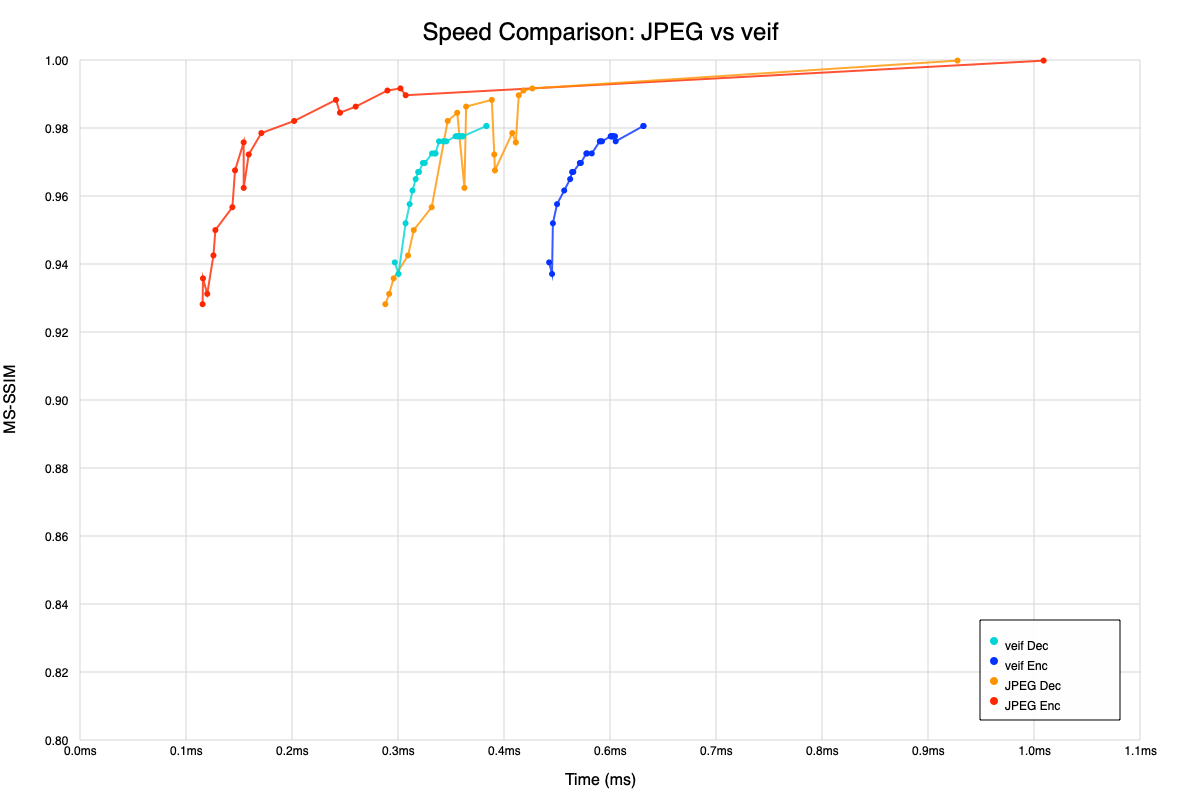
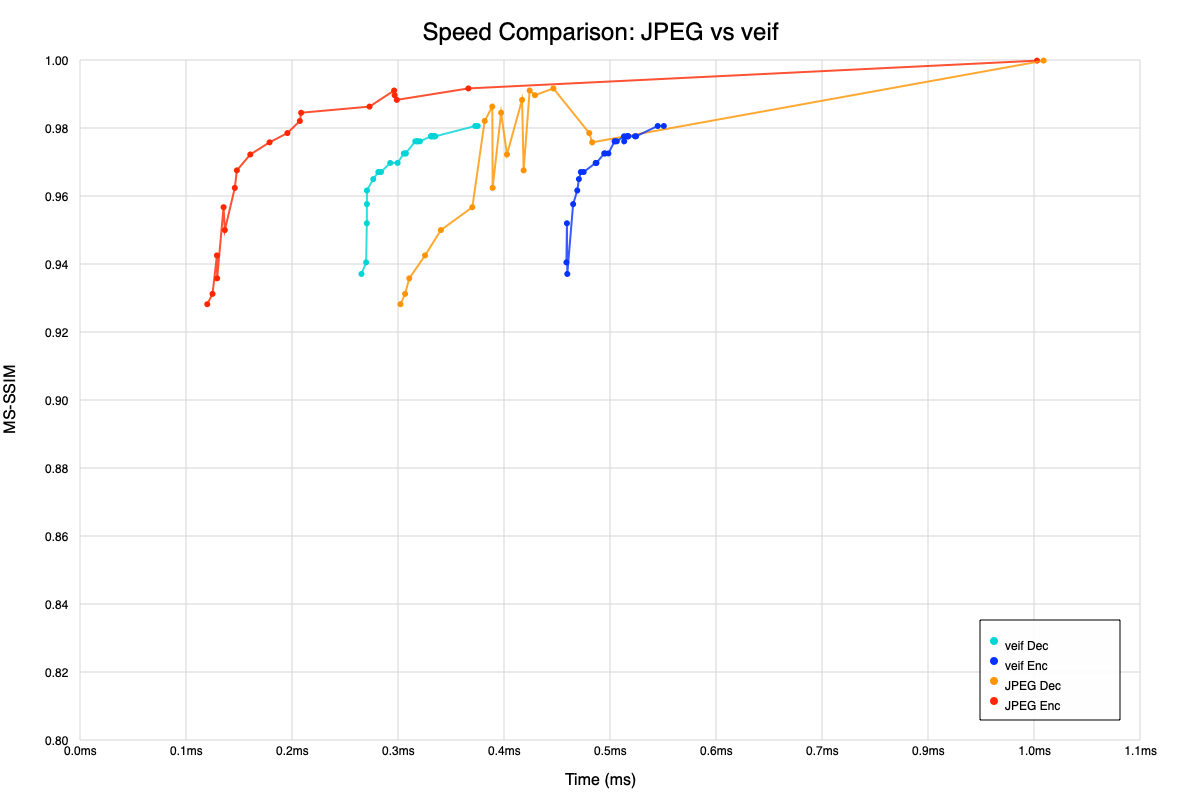
unroll

diff --git a/Sources/veif/Quant.swift b/Sources/veif/Quant.swift
@@ -109,6 +109,70 @@ private func performQuantizeSIMD8(_ vec: SIMD8<Int16>, mul: Int32, shift: Int32)
 
 @inline(__always)
 private func quantizeSIMD(_ block: inout BlockView, q: Quantizer) {
+    switch block.width {
+    case 8:  quantizeSIMD8(&block, q: q)
+    case 16: quantizeSIMD16(&block, q: q)
+    case 32: quantizeSIMD32(&block, q: q)
+    default: quantizeSIMDGeneric(&block, q: q)
+    }
+}
+
+@inline(__always)
+private func quantizeSIMD8(_ block: inout BlockView, q: Quantizer) {
+    let mul = q.mul
+    let shift = Int32(q.shift)
+    for y in 0..<8 {
+        let ptr = block.rowPointer(y: y)
+        let vec = SIMD8<Int16>(UnsafeBufferPointer(start: ptr, count: 8))
+        let res = performQuantizeSIMD8(vec, mul: mul, shift: shift)
+        UnsafeMutableRawPointer(ptr).assumingMemoryBound(to: SIMD8<Int16>.self).pointee = res
+    }
+}
+
+@inline(__always)
+private func quantizeSIMD16(_ block: inout BlockView, q: Quantizer) {
+    let mul = q.mul
+    let shift = Int32(q.shift)
+    for y in 0..<16 {
+        let ptr = block.rowPointer(y: y)
+        // 0
+        var vec = SIMD8<Int16>(UnsafeBufferPointer(start: ptr, count: 8))
+        var res = performQuantizeSIMD8(vec, mul: mul, shift: shift)
+        UnsafeMutableRawPointer(ptr).assumingMemoryBound(to: SIMD8<Int16>.self).pointee = res
+        // 8
+        vec = SIMD8<Int16>(UnsafeBufferPointer(start: ptr + 8, count: 8))
+        res = performQuantizeSIMD8(vec, mul: mul, shift: shift)
+        UnsafeMutableRawPointer(ptr + 8).assumingMemoryBound(to: SIMD8<Int16>.self).pointee = res
+    }
+}
+
+@inline(__always)
+private func quantizeSIMD32(_ block: inout BlockView, q: Quantizer) {
+    let mul = q.mul
+    let shift = Int32(q.shift)
+    for y in 0..<32 {
+        let ptr = block.rowPointer(y: y)
+        // 0
+        var vec = SIMD8<Int16>(UnsafeBufferPointer(start: ptr, count: 8))
+        var res = performQuantizeSIMD8(vec, mul: mul, shift: shift)
+        UnsafeMutableRawPointer(ptr).assumingMemoryBound(to: SIMD8<Int16>.self).pointee = res
+        // 8
+        vec = SIMD8<Int16>(UnsafeBufferPointer(start: ptr + 8, count: 8))
+        res = performQuantizeSIMD8(vec, mul: mul, shift: shift)
+        UnsafeMutableRawPointer(ptr + 8).assumingMemoryBound(to: SIMD8<Int16>.self).pointee = res
+        // 16
+        vec = SIMD8<Int16>(UnsafeBufferPointer(start: ptr + 16, count: 8))
+        res = performQuantizeSIMD8(vec, mul: mul, shift: shift)
+        UnsafeMutableRawPointer(ptr + 16).assumingMemoryBound(to: SIMD8<Int16>.self).pointee = res
+        // 24
+        vec = SIMD8<Int16>(UnsafeBufferPointer(start: ptr + 24, count: 8))
+        res = performQuantizeSIMD8(vec, mul: mul, shift: shift)
+        UnsafeMutableRawPointer(ptr + 24).assumingMemoryBound(to: SIMD8<Int16>.self).pointee = res
+    }
+}
+
+@inline(__always)
+private func quantizeSIMDGeneric(_ block: inout BlockView, q: Quantizer) {
     let mul = q.mul
     let shift = Int32(q.shift)
     
@@ -134,6 +198,77 @@ private func quantizeSIMD(_ block: inout BlockView, q: Quantizer) {
 
 @inline(__always)
 private func quantizeSIMDSignedMapping(_ block: inout BlockView, q: Quantizer) {
+    switch block.width {
+    case 8:  quantizeSIMDSignedMapping8(&block, q: q)
+    case 16: quantizeSIMDSignedMapping16(&block, q: q)
+    case 32: quantizeSIMDSignedMapping32(&block, q: q)
+    default: quantizeSIMDSignedMappingGeneric(&block, q: q)
+    }
+}
+
+@inline(__always)
+private func quantizeSIMDSignedMapping8(_ block: inout BlockView, q: Quantizer) {
+    let mul = q.mul
+    let shift = Int32(q.shift)
+    for y in 0..<8 {
+        let ptr = block.rowPointer(y: y)
+        let vec = SIMD8<Int16>(UnsafeBufferPointer(start: ptr, count: 8))
+        let res = performQuantizeSIMD8(vec, mul: mul, shift: shift)
+        let mask = (res &<< 1) ^ (res &>> 15)
+        UnsafeMutableRawPointer(ptr).assumingMemoryBound(to: SIMD8<Int16>.self).pointee = mask
+    }
+}
+
+@inline(__always)
+private func quantizeSIMDSignedMapping16(_ block: inout BlockView, q: Quantizer) {
+    let mul = q.mul
+    let shift = Int32(q.shift)
+    for y in 0..<16 {
+        let ptr = block.rowPointer(y: y)
+        // 0
+        var vec = SIMD8<Int16>(UnsafeBufferPointer(start: ptr, count: 8))
+        var res = performQuantizeSIMD8(vec, mul: mul, shift: shift)
+        var mask = (res &<< 1) ^ (res &>> 15)
+        UnsafeMutableRawPointer(ptr).assumingMemoryBound(to: SIMD8<Int16>.self).pointee = mask
+        // 8
+        vec = SIMD8<Int16>(UnsafeBufferPointer(start: ptr + 8, count: 8))
+        res = performQuantizeSIMD8(vec, mul: mul, shift: shift)
+        mask = (res &<< 1) ^ (res &>> 15)
+        UnsafeMutableRawPointer(ptr + 8).assumingMemoryBound(to: SIMD8<Int16>.self).pointee = mask
+    }
+}
+
+@inline(__always)
+private func quantizeSIMDSignedMapping32(_ block: inout BlockView, q: Quantizer) {
+    let mul = q.mul
+    let shift = Int32(q.shift)
+    for y in 0..<32 {
+        let ptr = block.rowPointer(y: y)
+        // 0
+        var vec = SIMD8<Int16>(UnsafeBufferPointer(start: ptr, count: 8))
+        var res = performQuantizeSIMD8(vec, mul: mul, shift: shift)
+        var mask = (res &<< 1) ^ (res &>> 15)
+        UnsafeMutableRawPointer(ptr).assumingMemoryBound(to: SIMD8<Int16>.self).pointee = mask
+        // 8
+        vec = SIMD8<Int16>(UnsafeBufferPointer(start: ptr + 8, count: 8))
+        res = performQuantizeSIMD8(vec, mul: mul, shift: shift)
+        mask = (res &<< 1) ^ (res &>> 15)
+        UnsafeMutableRawPointer(ptr + 8).assumingMemoryBound(to: SIMD8<Int16>.self).pointee = mask
+        // 16
+        vec = SIMD8<Int16>(UnsafeBufferPointer(start: ptr + 16, count: 8))
+        res = performQuantizeSIMD8(vec, mul: mul, shift: shift)
+        mask = (res &<< 1) ^ (res &>> 15)
+        UnsafeMutableRawPointer(ptr + 16).assumingMemoryBound(to: SIMD8<Int16>.self).pointee = mask
+        // 24
+        vec = SIMD8<Int16>(UnsafeBufferPointer(start: ptr + 24, count: 8))
+        res = performQuantizeSIMD8(vec, mul: mul, shift: shift)
+        mask = (res &<< 1) ^ (res &>> 15)
+        UnsafeMutableRawPointer(ptr + 24).assumingMemoryBound(to: SIMD8<Int16>.self).pointee = mask
+    }
+}
+
+@inline(__always)
+private func quantizeSIMDSignedMappingGeneric(_ block: inout BlockView, q: Quantizer) {
     let mul = q.mul
     let shift = Int32(q.shift)
     
@@ -271,6 +406,67 @@ private func performDequantizeSIMD8(_ vec: SIMD8<Int16>, step: Int32) -> SIMD8<I
 
 @inline(__always)
 private func dequantizeSIMD(_ block: inout BlockView, q: Quantizer) {
+    switch block.width {
+    case 8:  dequantizeSIMD8(&block, q: q)
+    case 16: dequantizeSIMD16(&block, q: q)
+    case 32: dequantizeSIMD32(&block, q: q)
+    default: dequantizeSIMDGeneric(&block, q: q)
+    }
+}
+
+@inline(__always)
+private func dequantizeSIMD8(_ block: inout BlockView, q: Quantizer) {
+    let step = Int32(q.step)
+    for y in 0..<8 {
+        let ptr = block.rowPointer(y: y)
+        let vec = SIMD8<Int16>(UnsafeBufferPointer(start: ptr, count: 8))
+        let res = performDequantizeSIMD8(vec, step: step)
+        UnsafeMutableRawPointer(ptr).assumingMemoryBound(to: SIMD8<Int16>.self).pointee = res
+    }
+}
+
+@inline(__always)
+private func dequantizeSIMD16(_ block: inout BlockView, q: Quantizer) {
+    let step = Int32(q.step)
+    for y in 0..<16 {
+        let ptr = block.rowPointer(y: y)
+        // 0
+        var vec = SIMD8<Int16>(UnsafeBufferPointer(start: ptr, count: 8))
+        var res = performDequantizeSIMD8(vec, step: step)
+        UnsafeMutableRawPointer(ptr).assumingMemoryBound(to: SIMD8<Int16>.self).pointee = res
+        // 8
+        vec = SIMD8<Int16>(UnsafeBufferPointer(start: ptr + 8, count: 8))
+        res = performDequantizeSIMD8(vec, step: step)
+        UnsafeMutableRawPointer(ptr + 8).assumingMemoryBound(to: SIMD8<Int16>.self).pointee = res
+    }
+}
+
+@inline(__always)
+private func dequantizeSIMD32(_ block: inout BlockView, q: Quantizer) {
+    let step = Int32(q.step)
+    for y in 0..<32 {
+        let ptr = block.rowPointer(y: y)
+        // 0
+        var vec = SIMD8<Int16>(UnsafeBufferPointer(start: ptr, count: 8))
+        var res = performDequantizeSIMD8(vec, step: step)
+        UnsafeMutableRawPointer(ptr).assumingMemoryBound(to: SIMD8<Int16>.self).pointee = res
+        // 8
+        vec = SIMD8<Int16>(UnsafeBufferPointer(start: ptr + 8, count: 8))
+        res = performDequantizeSIMD8(vec, step: step)
+        UnsafeMutableRawPointer(ptr + 8).assumingMemoryBound(to: SIMD8<Int16>.self).pointee = res
+        // 16
+        vec = SIMD8<Int16>(UnsafeBufferPointer(start: ptr + 16, count: 8))
+        res = performDequantizeSIMD8(vec, step: step)
+        UnsafeMutableRawPointer(ptr + 16).assumingMemoryBound(to: SIMD8<Int16>.self).pointee = res
+        // 24
+        vec = SIMD8<Int16>(UnsafeBufferPointer(start: ptr + 24, count: 8))
+        res = performDequantizeSIMD8(vec, step: step)
+        UnsafeMutableRawPointer(ptr + 24).assumingMemoryBound(to: SIMD8<Int16>.self).pointee = res
+    }
+}
+
+@inline(__always)
+private func dequantizeSIMDGeneric(_ block: inout BlockView, q: Quantizer) {
     let step = Int32(q.step)
     
     for y in 0..<block.height {
@@ -294,6 +490,88 @@ private func dequantizeSIMD(_ block: inout BlockView, q: Quantizer) {
 
 @inline(__always)
 private func dequantizeSIMDSignedMapping(_ block: inout BlockView, q: Quantizer) {
+    switch block.width {
+    case 8:  dequantizeSIMDSignedMapping8(&block, q: q)
+    case 16: dequantizeSIMDSignedMapping16(&block, q: q)
+    case 32: dequantizeSIMDSignedMapping32(&block, q: q)
+    default: dequantizeSIMDSignedMappingGeneric(&block, q: q)
+    }
+}
+
+@inline(__always)
+private func dequantizeSIMDSignedMapping8(_ block: inout BlockView, q: Quantizer) {
+    let step = Int32(q.step)
+    for y in 0..<8 {
+        let ptr = block.rowPointer(y: y)
+        let vec = SIMD8<Int16>(UnsafeBufferPointer(start: ptr, count: 8))
+        let mask = 0 &- (vec & 1)
+        let logicalShift = (vec &>> 1) & 0x7FFF
+        let decoded = logicalShift ^ mask
+        let res = performDequantizeSIMD8(decoded, step: step)
+        UnsafeMutableRawPointer(ptr).assumingMemoryBound(to: SIMD8<Int16>.self).pointee = res
+    }
+}
+
+@inline(__always)
+private func dequantizeSIMDSignedMapping16(_ block: inout BlockView, q: Quantizer) {
+    let step = Int32(q.step)
+    for y in 0..<16 {
+        let ptr = block.rowPointer(y: y)
+        // 0
+        var vec = SIMD8<Int16>(UnsafeBufferPointer(start: ptr, count: 8))
+        var mask = 0 &- (vec & 1)
+        var logicalShift = (vec &>> 1) & 0x7FFF
+        var decoded = logicalShift ^ mask
+        var res = performDequantizeSIMD8(decoded, step: step)
+        UnsafeMutableRawPointer(ptr).assumingMemoryBound(to: SIMD8<Int16>.self).pointee = res
+        // 8
+        vec = SIMD8<Int16>(UnsafeBufferPointer(start: ptr + 8, count: 8))
+        mask = 0 &- (vec & 1)
+        logicalShift = (vec &>> 1) & 0x7FFF
+        decoded = logicalShift ^ mask
+        res = performDequantizeSIMD8(decoded, step: step)
+        UnsafeMutableRawPointer(ptr + 8).assumingMemoryBound(to: SIMD8<Int16>.self).pointee = res
+    }
+}
+
+@inline(__always)
+private func dequantizeSIMDSignedMapping32(_ block: inout BlockView, q: Quantizer) {
+    let step = Int32(q.step)
+    for y in 0..<32 {
+        let ptr = block.rowPointer(y: y)
+        // 0
+        var vec = SIMD8<Int16>(UnsafeBufferPointer(start: ptr, count: 8))
+        var mask = 0 &- (vec & 1)
+        var logicalShift = (vec &>> 1) & 0x7FFF
+        var decoded = logicalShift ^ mask
+        var res = performDequantizeSIMD8(decoded, step: step)
+        UnsafeMutableRawPointer(ptr).assumingMemoryBound(to: SIMD8<Int16>.self).pointee = res
+        // 8
+        vec = SIMD8<Int16>(UnsafeBufferPointer(start: ptr + 8, count: 8))
+        mask = 0 &- (vec & 1)
+        logicalShift = (vec &>> 1) & 0x7FFF
+        decoded = logicalShift ^ mask
+        res = performDequantizeSIMD8(decoded, step: step)
+        UnsafeMutableRawPointer(ptr + 8).assumingMemoryBound(to: SIMD8<Int16>.self).pointee = res
+        // 16
+        vec = SIMD8<Int16>(UnsafeBufferPointer(start: ptr + 16, count: 8))
+        mask = 0 &- (vec & 1)
+        logicalShift = (vec &>> 1) & 0x7FFF
+        decoded = logicalShift ^ mask
+        res = performDequantizeSIMD8(decoded, step: step)
+        UnsafeMutableRawPointer(ptr + 16).assumingMemoryBound(to: SIMD8<Int16>.self).pointee = res
+        // 24
+        vec = SIMD8<Int16>(UnsafeBufferPointer(start: ptr + 24, count: 8))
+        mask = 0 &- (vec & 1)
+        logicalShift = (vec &>> 1) & 0x7FFF
+        decoded = logicalShift ^ mask
+        res = performDequantizeSIMD8(decoded, step: step)
+        UnsafeMutableRawPointer(ptr + 24).assumingMemoryBound(to: SIMD8<Int16>.self).pointee = res
+    }
+}
+
+@inline(__always)
+private func dequantizeSIMDSignedMappingGeneric(_ block: inout BlockView, q: Quantizer) {
     let step = Int32(q.step)
     
     for y in 0..<block.height {
